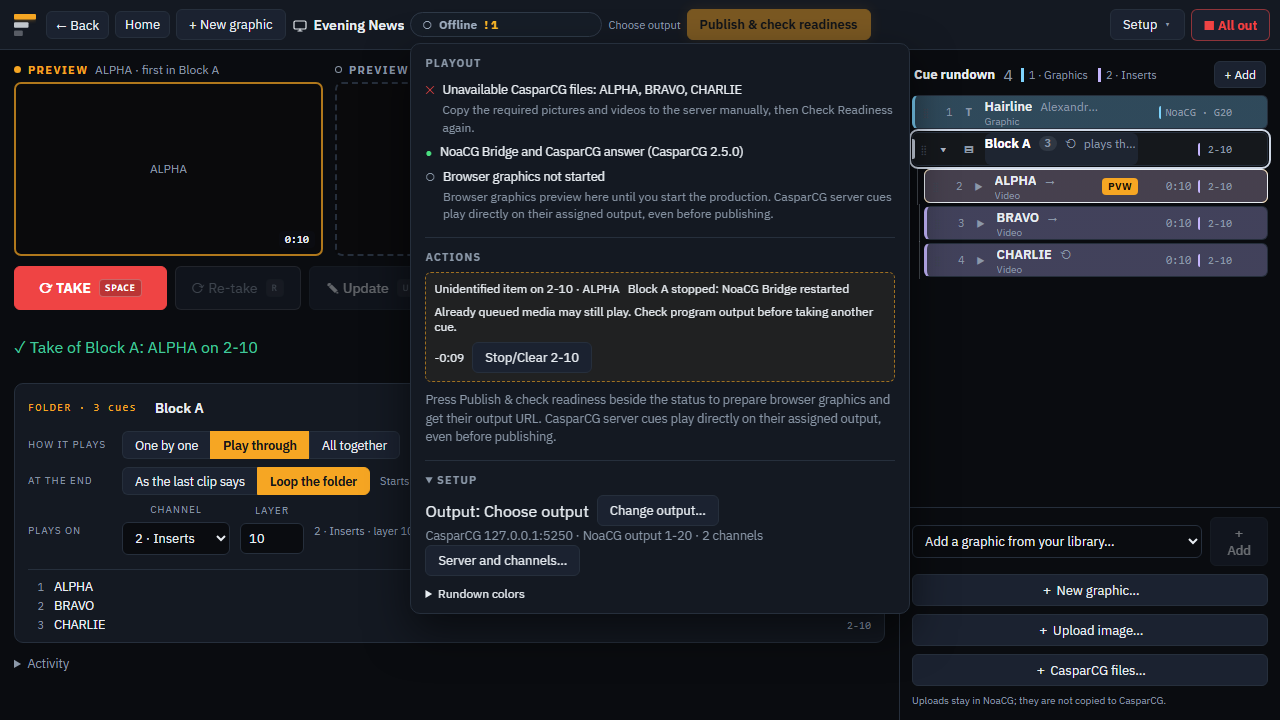
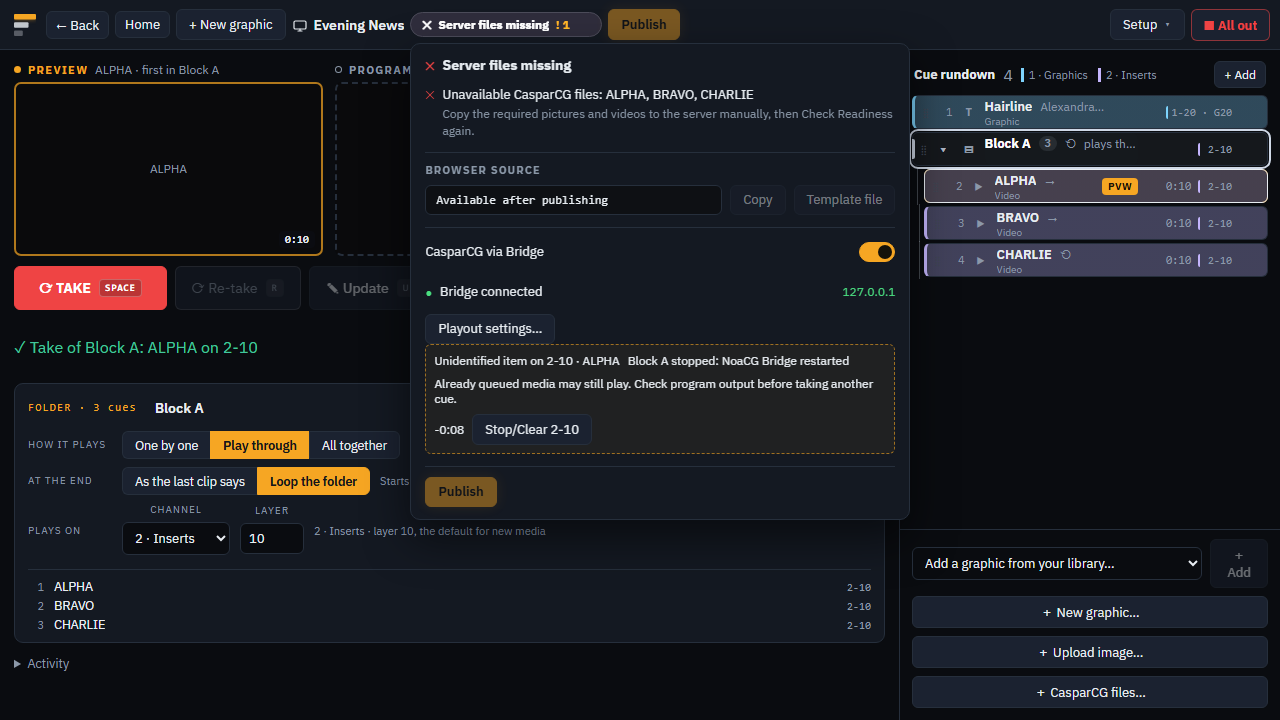
Let the Take blockers say CasparCG is off, and keep one copy of each shortcut and slot rule
The CasparCG-off refusal for a native cue lived in the send alone, so the
greyed TAKE gave no reason and a One-by-one step took the previous cue
off before failing on the native one. The Take blockers now own it: the
button's title and the cue editor say "CasparCG is off for this
production.", and a step refuses before it sends anything, as its own
check promises. An All-together folder still takes its other cues and
marks the native member NOT TAKEN.

The shortcut dialog refused operator keys by position from a hand-written
copy of the verb keymap; it now derives the positions from the keys it is
given. The production page's CasparCG slot gate is named once for the
header's Load and the panel's slot row.

diff --git a/src/components/home/ProductionPage.tsx b/src/components/home/ProductionPage.tsx
@@ -2800,7 +2800,6 @@ export default function ProductionPage({ id, sub }: { id: string; sub?: Producti
     // the button and Re-take all come through here, so the check is made once, where it cannot be
     // stepped round; taking a cue OFF and staging it on PREVIEW are never held up by it.
     if (verb === 'take') {
-      if (!casparOn) return { ok: false, note: `${label} was not sent: CasparCG is off for this production.`, accepted: [] };
       const blocked = options.direct ? directBlocker(cue) : takeBlockerFor(cue);
       if (blocked) return { ok: false, note: `${label} was not sent: ${blocked}`, accepted: [] };
     }
@@ -3320,6 +3319,11 @@ export default function ProductionPage({ id, sub }: { id: string; sub?: Producti
       },
     ];
   };
+  /** A native cue is not taken while the production's CasparCG switch is off (AC-4): the one place
+   *  that says so, read by the TAKE button's title, the cue editor, a One-by-one step and the send.
+   *  An All-together folder still takes its other cues and marks such a member NOT TAKEN. */
+  const casparOffRefusal = (cue: ShowCue): string | null =>
+    cue.source === 'playout' && !casparOn ? 'CasparCG is off for this production.' : null;
   /**
    * WHY A TAKE OF THIS CUE - OR THIS FOLDER - WOULD NOT GO, or null (plan §6.9): a setting nobody here
    * can honour is never dropped on the way to air, a Play next whose clips cannot be found is never
@@ -3329,6 +3333,8 @@ export default function ProductionPage({ id, sub }: { id: string; sub?: Producti
    */
   const takeBlockerFor = (target: ShowCue | ShowFolder | null): string | null => {
     if (!target) return null;
+    const off = 'source' in target ? casparOffRefusal(target) : null;
+    if (off) return off;
     const plans = takePlans(target);
     for (const plan of plans) {
       const onOutput = outputSlotRefusal(plan.slot, playoutSettings);
@@ -3346,6 +3352,8 @@ export default function ProductionPage({ id, sub }: { id: string; sub?: Producti
   /** Direct cues use their own route and end action, independently of their folder or neighbours. */
   const directBlocker = (cue: ShowCue): string | null => {
     if (cue.source !== 'playout') return !cueGraphicName(cue) ? `${cue.label} has no graphic.` : null;
+    const off = casparOffRefusal(cue);
+    if (off) return off;
     const item = playoutItemFor(cue);
     if (!item) return `${cue.label} has no media file.`;
     const settings = loadPlayoutSettings();
@@ -3491,7 +3499,7 @@ export default function ProductionPage({ id, sub }: { id: string; sub?: Producti
         setNote(outcome.note);
         return;
       }
-      const plan = togetherPlan(members, { items: playoutItems, addressOf: addressOfItem, graphicOf: graphicOfCue, ability: playbackAbility, blockerOf: (c) => takeBlockerFor(c) });
+      const plan = togetherPlan(members, { items: playoutItems, addressOf: addressOfItem, graphicOf: graphicOfCue, ability: playbackAbility, blockerOf: (c) => (casparOffRefusal(c) ? null : takeBlockerFor(c)) });
       if (!plan.ok) {
         setNote(`Take was not sent: ${plan.reason}`);
         return;
@@ -4375,10 +4383,13 @@ export default function ProductionPage({ id, sub }: { id: string; sub?: Producti
     playbackCheck: unsupportedCue ? { key: 'playback', tone: 'bad', short: 'Cue settings unavailable', label: `${unsupportedCue.cue.label}: cannot Take`, advice: unsupportedCue.reason! } : null,
   });
   const flowBusy = prepareFlow.phase === 'publishing' || prepareFlow.phase === 'preparing';
+  /** The CasparCG slot is this page's to show and act on: published, switched on, and the Bridge
+   *  paired and answering. The header's Load and the panel's slot row read the same gate. */
+  const slotInPlay = started && casparOn && playoutIsConfigured && bridgeOk;
   /** THE ONE ACTION SLOT (D1): Publish before the first publish, then whichever is due first -
    *  loading this production on its CasparCG slot, then publishing changes that renderers draw. The
    *  panel lists every due action. */
-  const loadDue = started && casparOn && playoutIsConfigured && bridgeOk && !!outputSlot && outputSlot.holds !== 'ours' && outputSlot.holds !== 'unreadable' && outputSlot.holds !== 'failed' && !replaceAsk;
+  const loadDue = slotInPlay && !!outputSlot && outputSlot.holds !== 'ours' && outputSlot.holds !== 'unreadable' && outputSlot.holds !== 'failed' && !replaceAsk;
   const headerAction: { label: string; testId: string; run: () => void; primary?: boolean; title?: string; unavailable?: boolean } | null = !started
     ? {
         label: 'Publish',
@@ -4417,24 +4428,23 @@ export default function ProductionPage({ id, sub }: { id: string; sub?: Producti
           host: bridgeCheckLine.tone === 'ok' ? playoutSettings.host : undefined,
         }
       : null,
-    slot:
-      started && casparOn && playoutIsConfigured && bridgeOk
-        ? {
-            where: slotWhere,
-            tone: slotCheckLine?.tone ?? 'idle',
-            text: !outputSlot
-              ? 'Checking…'
-              : {
-                  ours: slotCheckLine?.tone === 'ok' ? 'Loaded' : 'Loading…',
-                  other: 'Another production',
-                  failed: 'Cannot read',
-                  unreadable: slotLoadedHere ? 'Loaded' : 'Unknown',
-                  empty: 'Empty',
-                }[outputSlot.holds],
-            canLoad: !!outputSlot && outputSlot.holds !== 'ours' && !replaceAsk,
-            canUnload: outputSlot?.holds === 'ours' || outputSlot?.holds === 'unreadable',
-          }
-        : null,
+    slot: slotInPlay
+      ? {
+          where: slotWhere,
+          tone: slotCheckLine?.tone ?? 'idle',
+          text: !outputSlot
+            ? 'Checking…'
+            : {
+                ours: slotCheckLine?.tone === 'ok' ? 'Loaded' : 'Loading…',
+                other: 'Another production',
+                failed: 'Cannot read',
+                unreadable: slotLoadedHere ? 'Loaded' : 'Unknown',
+                empty: 'Empty',
+              }[outputSlot.holds],
+          canLoad: !!outputSlot && outputSlot.holds !== 'ours' && !replaceAsk,
+          canUnload: outputSlot?.holds === 'ours' || outputSlot?.holds === 'unreadable',
+        }
+      : null,
     replaceAsk: replaceAsk ? { where: slotWhere } : null,
     busy: busy || flowBusy || slotBusy,
   };

diff --git a/src/model/cueShortcuts.ts b/src/model/cueShortcuts.ts
@@ -119,7 +119,7 @@ export function shortcutFromPress(
   if (p.ctrl && (['KeyC', 'KeyX', 'KeyV', 'KeyZ', 'KeyY'].includes(p.code))) return { refused: 'The rundown uses Ctrl+C, X, V, Z and Y.' };
   // The rundown's own Delete (playoutKeys `useRundownEditKeys`), which a cue would take first.
   if (!p.ctrl && !p.alt && !p.shift && p.code === 'Delete') return { refused: 'The rundown uses Delete.' };
-  if (!p.ctrl && !p.alt && (verbKeys.has(p.key.toLowerCase()) || VERB_CODES.has(p.code))) {
+  if (!p.ctrl && !p.alt && (verbKeys.has(p.key.toLowerCase()) || [...verbKeys].some((key) => codesOf(key).includes(p.code)))) {
     return { refused: `${labelOf(p) === ' ' || p.code === 'Space' ? 'Space' : labelOf(p)} is an operator key.` };
   }
   const label = labelOf(p);
@@ -127,8 +127,14 @@ export function shortcutFromPress(
   return { value: `${p.ctrl ? 'ctrl+' : ''}${p.alt ? 'alt+' : ''}${p.shift ? 'shift+' : ''}@${p.code}:${label}` };
 }
 
-/** The operator keys by position as well as by character, so another layout cannot reach them. */
-const VERB_CODES = new Set(['Space', 'KeyR', 'KeyU', 'KeyN', 'Digit0', 'Numpad0', 'KeyP', 'KeyH', 'ArrowUp', 'ArrowDown']);
+/** Where an operator key sits, so another layout cannot reach it by position: `r` is KeyR, `0`
+ *  Digit0 and Numpad0, `arrowup` ArrowUp. */
+function codesOf(key: string): string[] {
+  if (key === ' ') return ['Space'];
+  if (/^[a-z]$/.test(key)) return [`Key${key.toUpperCase()}`];
+  if (/^\d$/.test(key)) return [`Digit${key}`, `Numpad${key}`];
+  return [key.replace(/^arrow(\w)/, (_, c: string) => `Arrow${c.toUpperCase()}`).replace(/^\w/, (c) => c.toUpperCase())];
+}
 
 /** A concurrent edit may create duplicates, and an old letter shortcut may name the key a new
  *  physical one names (`sameCueShortcut`). Neither cue gets that key until resolved. Bindings are

diff --git a/e2e/publish-output-setup.spec.ts b/e2e/publish-output-setup.spec.ts
@@ -287,6 +287,10 @@ test('the rundown badge reads the layer, with the CasparCG slot only when Caspar
   await setCasparSwitch(page,false);
   await expect(graphic).toHaveText(/^G\d+$/);
   await expect(clip.getByTestId('cue-caspar-off')).toHaveText('CasparCG off');
+  // Its greyed TAKE says the same, rather than nothing.
+  await clip.getByTestId('select-cue').click();
+  await expect(page.getByTestId('verb-take')).toBeDisabled();
+  await expect(page.getByTestId('verb-take')).toHaveAttribute('title','CasparCG is off for this production.');
   expect(bridge.actions).toEqual([]);
   await page.unrouteAll({behavior:'ignoreErrors'});
 });
